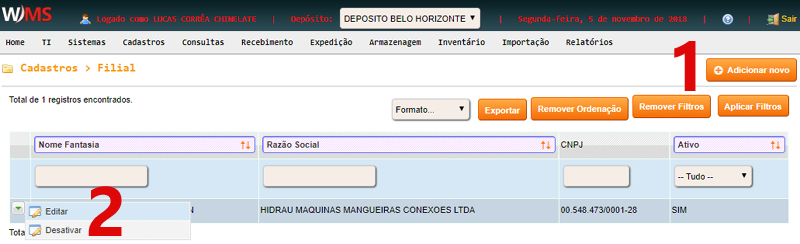
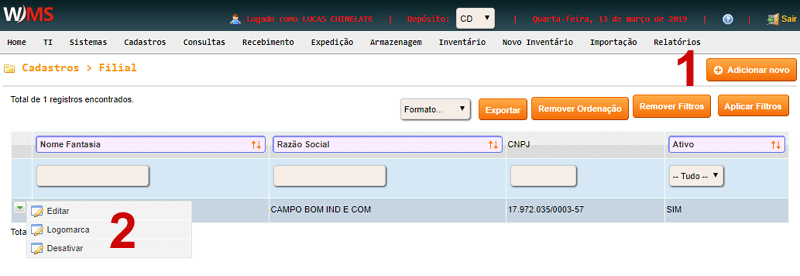
atualização do manual com a funcionalidade inserção de logomarca

diff --git a/public/wms_manual/cadastros/filial.html b/public/wms_manual/cadastros/filial.html
@@ -30,23 +30,30 @@
 
         </section>
 
-        <section class="clear">           
+        <p class="clear">
 
-            <p>Para cadastrar uma filial, clique em <strong>ADICIONAR NOVO</strong>, conforme item 1 da figura abaixo. <br>
-            Para EDITAR/DESATIVAR uma filial, posicione o mouse sobre a seta no início da linha, em seguida 
-            clique em EDITAR ou DESATIVAR, conforme item 2 da figura abaixo. <br>
-            </strong>.
-            </p>
-
-            <div class="figure"><img src="images/img89.jpg"></div>
+            <p>Para cadastrar uma filial, clique em <strong>ADICIONAR NOVO</strong>, conforme item 1 da figura abaixo. <br><br>
+                Conforme item 2 da figura, você pode fazer 3 operações em um registro de filial: EDITAR, INSERIR LOGOMARCA e DESATIVAR.<br><br>
+                Para EDITAR/DESATIVAR uma filial, posicione o mouse sobre a seta no início da linha, em seguida clique em EDITAR ou DESATIVAR,
+                conforme item 2 da figura abaixo. <br><br>
+            <div class="figure"><img src="images/img89.jpg"></div></p>
 
         </section>
         
         <section class="clear">           
 
-            <p>Na tela de cadastro, preencha o campos obrigatórios, em seguida clique em <strong>SALVAR</strong>
+            <p>Na tela de cadastro/edição, preencha o campos obrigatórios, em seguida clique em <strong>SALVAR</strong>
 
             <div class="figure"><img src="images/img90.jpg"></div>
+
+        </section>
+
+        <section class="clear">
+
+            <p>Na tela de LOGOMARCA, clique em <strong>ESCOLHER ARQUIVO</strong>, selecione o arquivo em seu computador,
+                em seguida clique em <strong>ENVIAR</strong>.
+
+            <div class="figure"><img src="images/img114.jpg"></div>
 
         </section>
 
